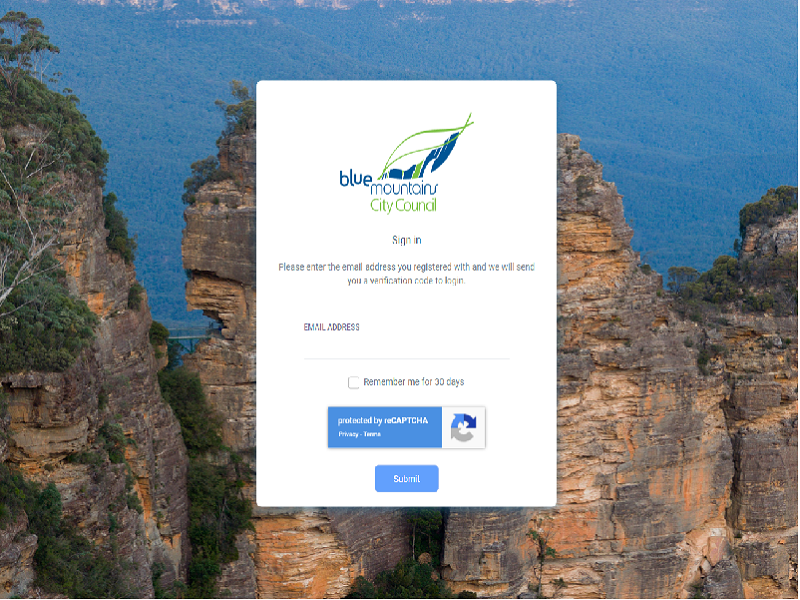
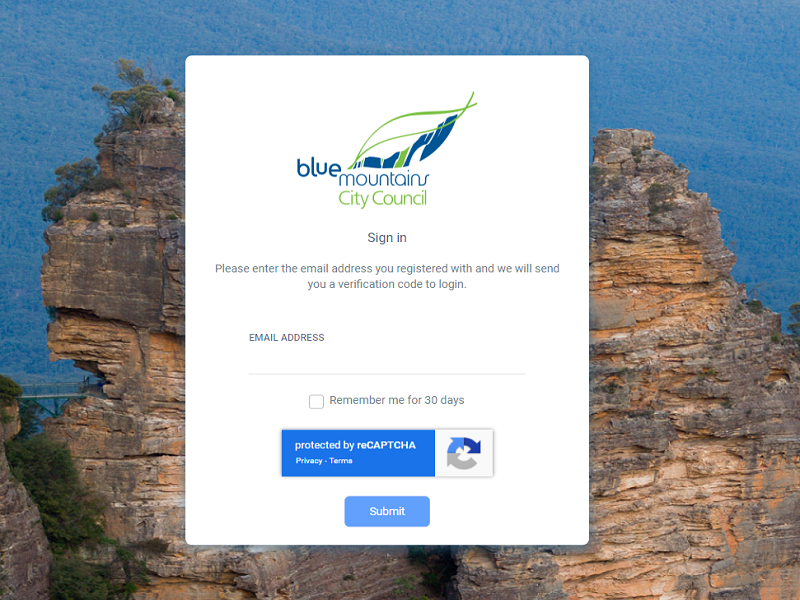
Portfolio Changes

diff --git a/index.html b/index.html
@@ -165,16 +165,16 @@
         <div class="col-lg-6">
 
           <div class="progress">
-            <span class="skill">Angular 7+ <i class="val">80%</i></span>
+            <span class="skill">Angular 7+ <i class="val">90%</i></span>
             <div class="progress-bar-wrap">
-              <div class="progress-bar" role="progressbar" aria-valuenow="80" aria-valuemin="0" aria-valuemax="100"></div>
+              <div class="progress-bar" role="progressbar" aria-valuenow="90" aria-valuemin="0" aria-valuemax="100"></div>
             </div>
           </div>
 
           <div class="progress">
-            <span class="skill">Codeigniter <i class="val">80%</i></span>
+            <span class="skill">Codeigniter <i class="val">70%</i></span>
             <div class="progress-bar-wrap">
-              <div class="progress-bar" role="progressbar" aria-valuenow="80" aria-valuemin="0" aria-valuemax="100"></div>
+              <div class="progress-bar" role="progressbar" aria-valuenow="70" aria-valuemin="0" aria-valuemax="100"></div>
             </div>
           </div>
 
@@ -211,9 +211,9 @@
           </div>
 
           <div class="progress">
-            <span class="skill">Laravel <i class="val">30%</i></span>
+            <span class="skill">Laravel <i class="val">20%</i></span>
             <div class="progress-bar-wrap">
-              <div class="progress-bar" role="progressbar" aria-valuenow="30" aria-valuemin="0" aria-valuemax="100"></div>
+              <div class="progress-bar" role="progressbar" aria-valuenow="20" aria-valuemin="0" aria-valuemax="100"></div>
             </div>
           </div>
 
@@ -518,7 +518,7 @@
           <div class="icon-box">
             <div class="icon"><i class="bx bxl-dribbble"></i></div>
             <h4><a href="">Angular Front End Developement</a></h4>
-            <p>I have 1.5+ years expertise in Angular 7+ Website Developement. I deliver effective, bug-free website, panels & design with clean and easy-to-maintain code.</p>
+            <p>I have 2+ years expertise in Angular 7+ Website Developement. I deliver effective, bug-free website, panels & design with clean and easy-to-maintain code.</p>
           </div>
         </div>
 
@@ -561,15 +561,29 @@
 
       <div class="row portfolio-container">
 
-        <div class="col-lg-4 col-md-6 portfolio-item filter-app">
+        <div class="col-lg-4 col-md-6 portfolio-item filter-card">
           <div class="portfolio-wrap">
-            <img src="assets/img/portfolio/anteliken-1.png" class="img-fluid" alt="">
+            <img src="assets/img/portfolio/snanyatra.png" class="img-fluid" alt="">
             <div class="portfolio-info">
-              <h4>Anteliken</h4>
-              <p>Admin Panel</p>
+              <h4>SnanYatra</h4>
+              <p>Website</p>
               <div class="portfolio-links">
-                <a href="assets/img/portfolio/anteliken-1.png" data-gallery="portfolioGallery" class="portfolio-lightbox" title="Anteliken CRM"><i class="bx bx-plus"></i></a>
-                <a href="http://anteliken.com/CRM/Login"  target="_blank"  title="CRM"><i class="bx bx-link"></i></a>
+                <a href="assets/img/portfolio/snanyatra.png" data-gallery="portfolioGallery" class="portfolio-lightbox" title="SnanYatra Website"><i class="bx bx-plus"></i></a>
+                <a href="http://snanyatra.in/" target="_blank" title="Portfolio Details"><i class="bx bx-link"></i></a>
+              </div>
+            </div>
+          </div>
+        </div>
+
+        <div class="col-lg-4 col-md-6 portfolio-item filter-card">
+          <div class="portfolio-wrap">
+            <img src="assets/img/portfolio/Levelxstream.png" class="img-fluid" alt="">
+            <div class="portfolio-info">
+              <h4>Levelxstream</h4>
+              <p>Website</p>
+              <div class="portfolio-links">
+                <a href="assets/img/portfolio/Levelxstream.png" data-gallery="portfolioGallery" class="portfolio-lightbox" title="Levelxstream Website"><i class="bx bx-plus"></i></a>
+                <a href="http://snanyatra.in/" target="_blank" title="Portfolio Details"><i class="bx bx-link"></i></a>
               </div>
             </div>
           </div>
@@ -591,13 +605,28 @@
 
         <div class="col-lg-4 col-md-6 portfolio-item filter-app">
           <div class="portfolio-wrap">
+            <img src="assets/img/portfolio/anteliken-1.png" class="img-fluid" alt="">
+            <div class="portfolio-info">
+              <h4>Anteliken</h4>
+              <p>Admin Panel</p>
+              <div class="portfolio-links">
+                <a href="assets/img/portfolio/anteliken-1.png" data-gallery="portfolioGallery" class="portfolio-lightbox" title="Anteliken CRM"><i class="bx bx-plus"></i></a>
+                <a href="http://anteliken.com/CRM/Login"  target="_blank"  title="CRM"><i class="bx bx-link"></i></a>
+              </div>
+            </div>
+          </div>
+        </div>
+
+        <div class="col-lg-4 col-md-6 portfolio-item filter-app">
+          <div class="portfolio-wrap">
             <img src="assets/img/portfolio/Towni.png" class="img-fluid" alt="">
             <div class="portfolio-info">
               <h4>Towni Panel</h4>
               <p>Admin Panel</p>
               <div class="portfolio-links">
-                <a href="assets/img/portfolio/Towni.png" class="portfolio-lightbox" title="Towni Panel"><i class="bx bx-plus"></i></a>
-                <a href="https://towniportaldev.lbh.one/auth/login" target="_blank" title="Portfolio Details"><i class="bx bx-link"></i></a>
+                <a href="assets/img/portfolio/towni-dashboard.png" data-gallery="portfolioGallery" class="portfolio-lightbox" title="Towni Panel"><i class="bx bx-plus"></i></a>
+                <a href="assets/img/portfolio/towni-news.png" class="portfolio-lightbox" title="Towni Panel"><i class="bx bx-plus"></i></a>
+                <a href="https://towniportaldev.lbh.one/auth/login" data-gallery="portfolioDetailsGallery" data-glightbox="type: external" class="portfolio-details-lightbox" title="Portfolio Details"><i class="bx bx-link"></i></a>
               </div>
             </div>
           </div>
@@ -605,17 +634,19 @@
 
         <div class="col-lg-4 col-md-6 portfolio-item filter-card">
           <div class="portfolio-wrap">
-            <img src="assets/img/portfolio/Taxisti-1.png" class="img-fluid" alt="">
+            <img src="assets/img/portfolio/Taxisti.png" class="img-fluid" alt="">
             <div class="portfolio-info">
               <h4>Taxisti</h4>
               <p>Admin Panel</p>
               <div class="portfolio-links">
-                <a href="assets/img/portfolio/Taxisti-1.png" data-gallery="portfolioGallery" class="portfolio-lightbox" title="Taxisti Panel"><i class="bx bx-plus"></i></a>
+                <a href="assets/img/portfolio/Taxisti-dash.png" data-gallery="portfolioGallery" class="portfolio-lightbox" title="Taxisti Panel"><i class="bx bx-plus"></i></a>
                 <a href="http://dash.dev-taxisti.com/dash/login" target="_blank" title="Portfolio Details"><i class="bx bx-link"></i></a>
               </div>
             </div>
           </div>
         </div>
+
+        
 
       </div>
 

diff --git a/portfolio-details.html b/portfolio-details.html
@@ -86,7 +86,55 @@
         </div>
 
       </div>
-    </div><!-- End Portfolio Details -->
+    </div>
+    <div id="portfolio-details" class="portfolio-details">
+      <div class="container">
+
+        <div class="row">
+
+          <div class="col-lg-8">
+            <h2 class="portfolio-title">This is an example of portfolio detail</h2>
+
+            <div class="portfolio-details-slider swiper-container">
+              <div class="swiper-wrapper align-items-center">
+
+                <div class="swiper-slide">
+                  <img src="assets/img/portfolio/portfolio-details-1.jpg" alt="">
+                </div>
+
+                <div class="swiper-slide">
+                  <img src="assets/img/portfolio/portfolio-details-2.jpg" alt="">
+                </div>
+
+                <div class="swiper-slide">
+                  <img src="assets/img/portfolio/portfolio-details-3.jpg" alt="">
+                </div>
+
+              </div>
+              <div class="swiper-pagination"></div>
+            </div>
+
+          </div>
+
+          <div class="col-lg-4 portfolio-info">
+            <h3>Project information</h3>
+            <ul>
+              <li><strong>Category</strong>: Web design</li>
+              <li><strong>Client</strong>: ASU Company</li>
+              <li><strong>Project date</strong>: 01 March, 2020</li>
+              <li><strong>Project URL</strong>: <a href="#">www.example.com</a></li>
+            </ul>
+
+            <p>
+              Autem ipsum nam porro corporis rerum. Quis eos dolorem eos itaque inventore commodi labore quia quia. Exercitationem repudiandae officiis neque suscipit non officia eaque itaque enim. Voluptatem officia accusantium nesciunt est omnis tempora consectetur dignissimos. Sequi nulla at esse enim cum deserunt eius.
+            </p>
+          </div>
+
+        </div>
+
+      </div>
+    </div>
+    <!-- End Portfolio Details -->
 
   </main><!-- End #main -->
 

diff --git a/assets/css/style.css b/assets/css/style.css
@@ -19,7 +19,7 @@ body {
 body::before {
   content: "";
   position: fixed;
-  background: #040404 url("../img/bg.jpg") top right no-repeat;
+  background: #040404 url("../img/vs-black-2.jpg") top right no-repeat;
   background-size: cover;
   left: 0;
   right: 0;
